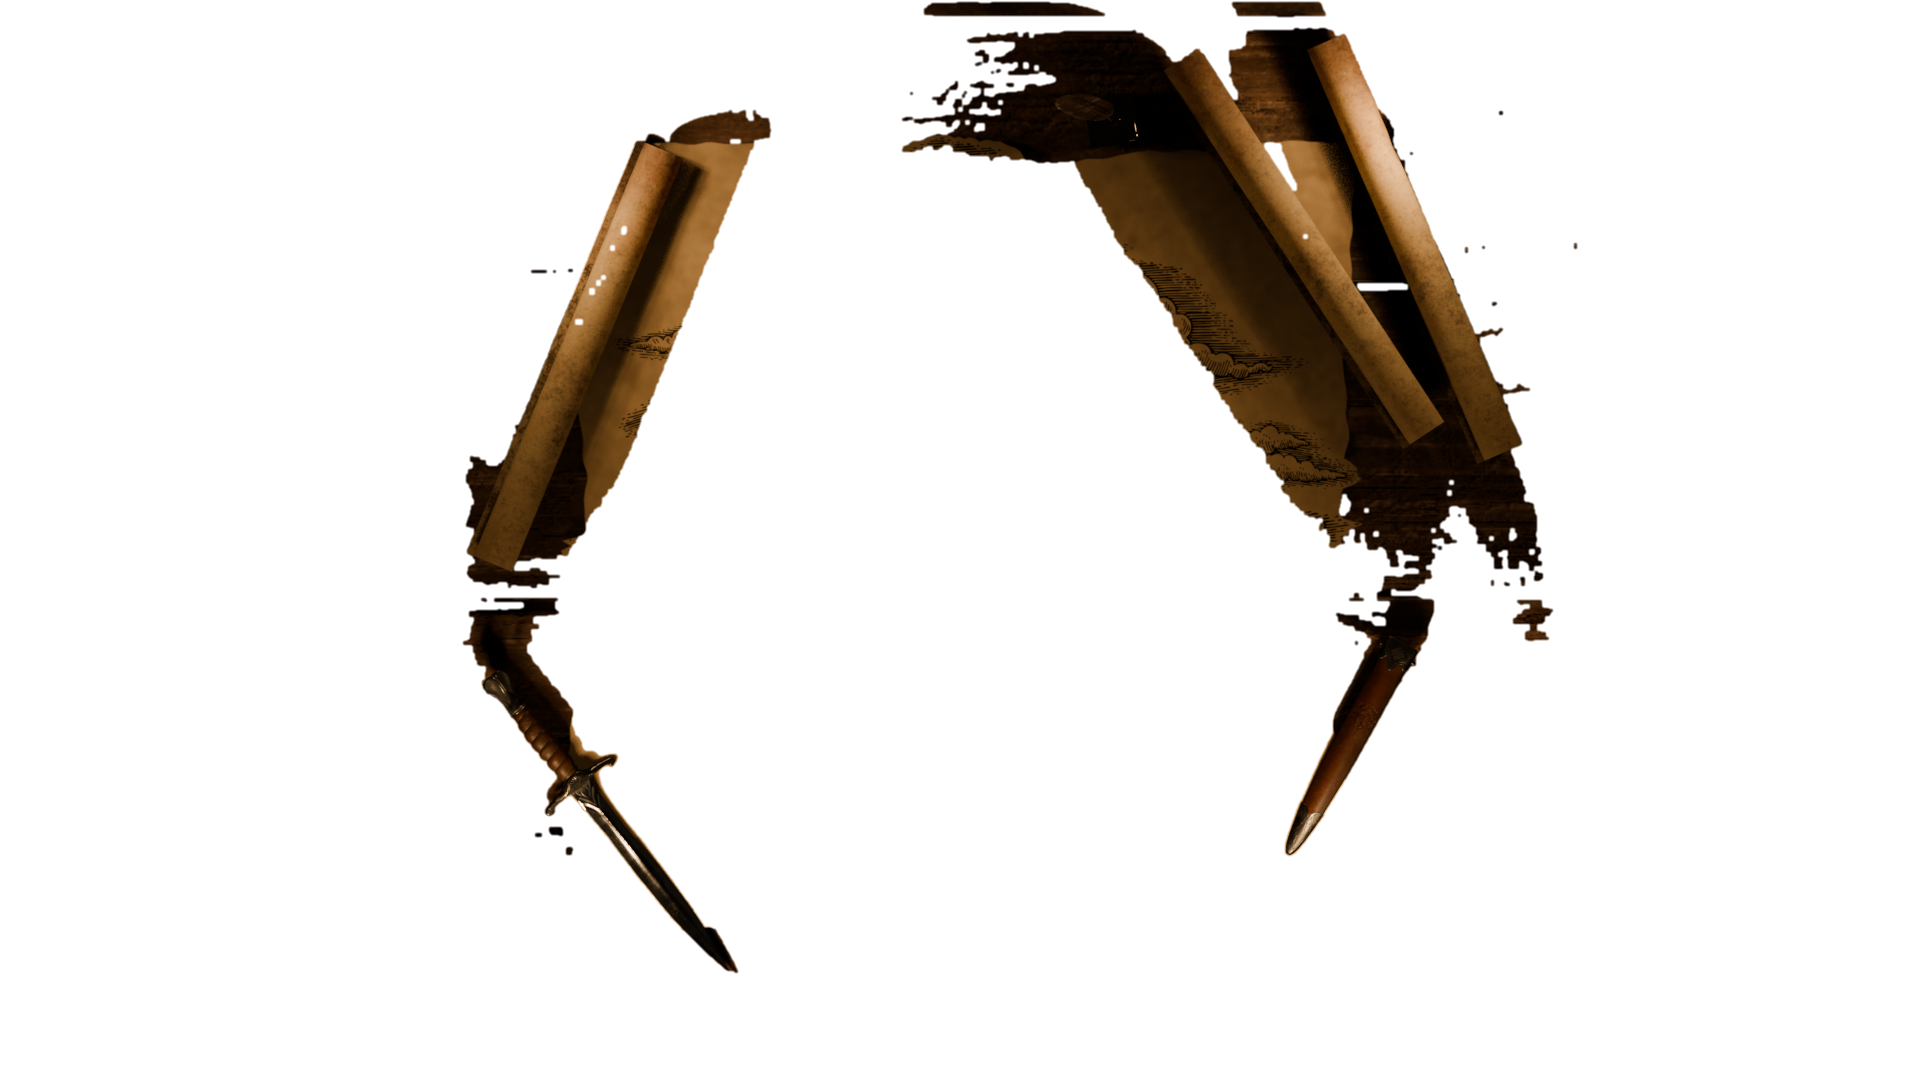
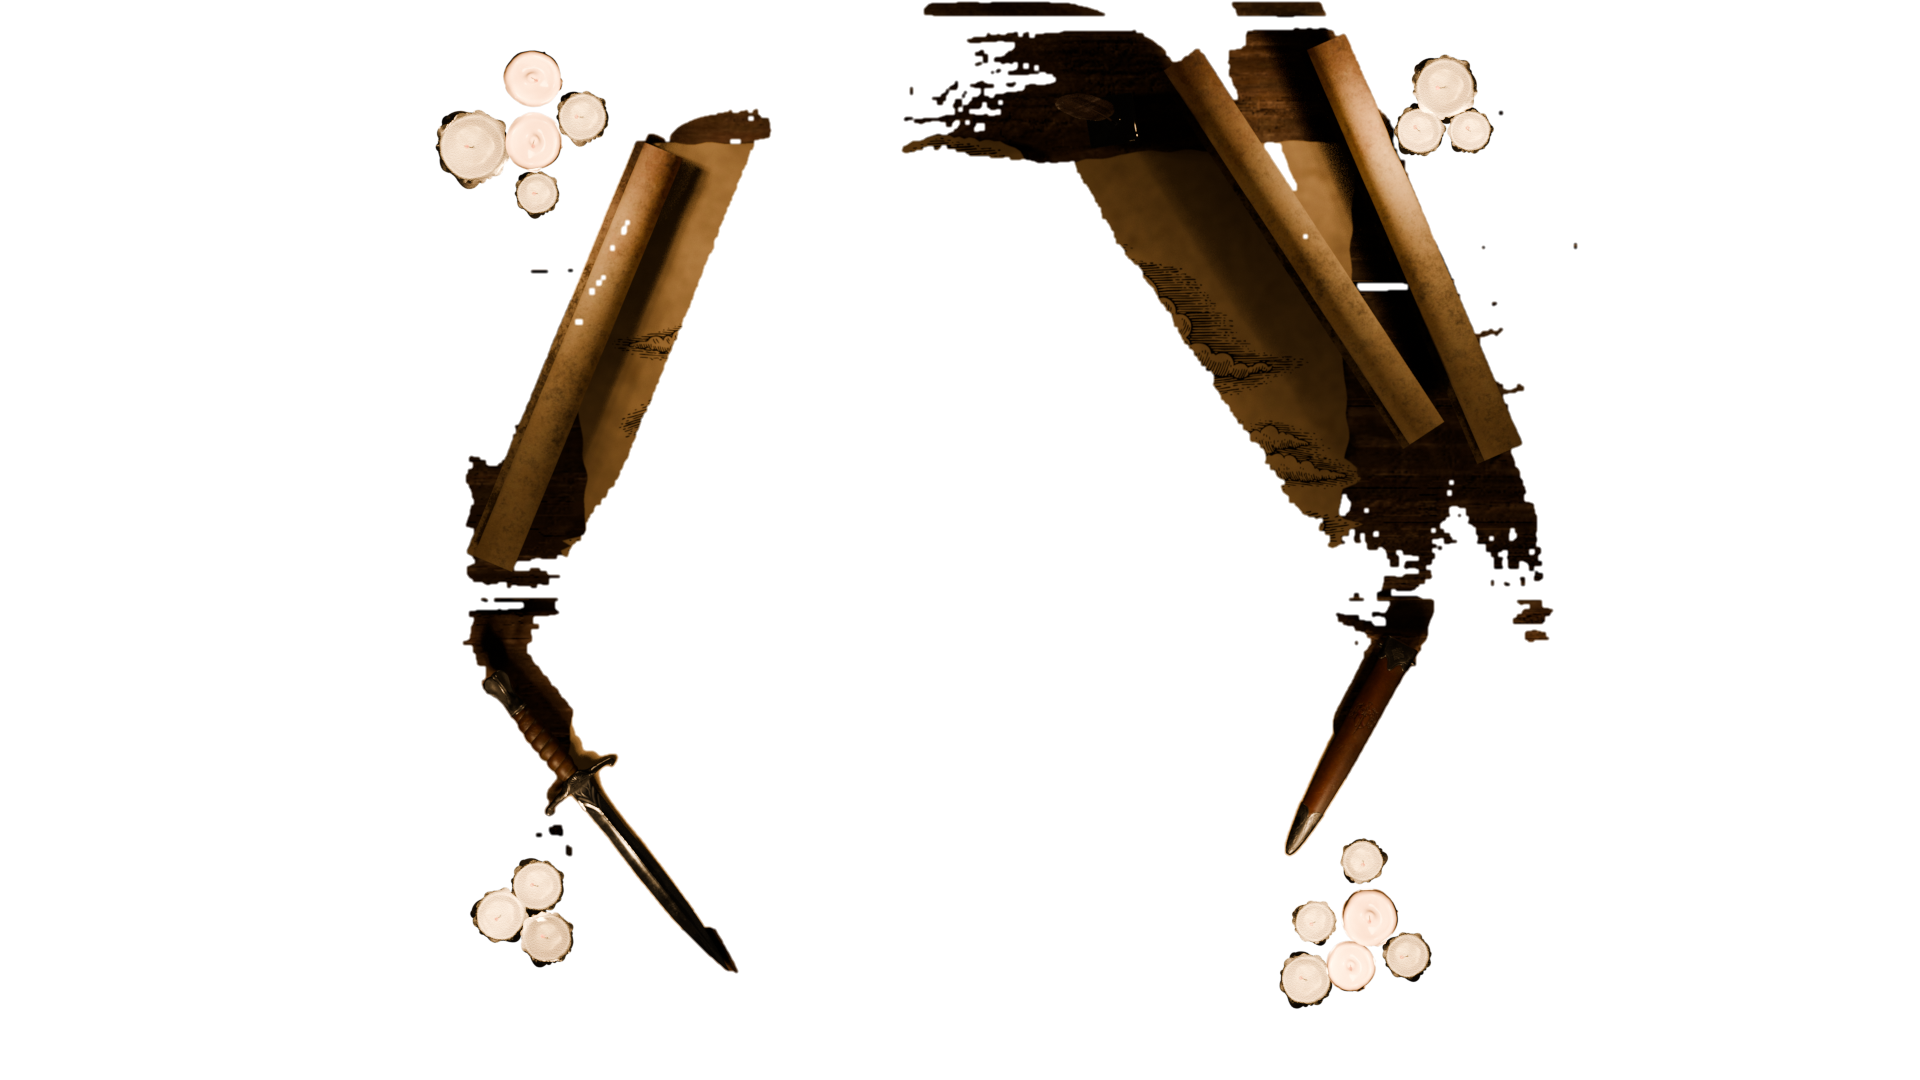
Fond Parchemin : accord de ton de la carte + bougies au-dessus
1. « assombris la carte pour que les couleurs correspondent ». Mesure : papier du
   decor 180,163,118 contre papier des tuiles 216,185,141 — la carte est 15% plus
   claire. Multiply constant du facteur exact 0.833/0.881/0.837, soit
   rgb(212,225,213), sur un volet dedie (z250). CONSTANT, donc la teinte ne change
   jamais au zoom (c'etait le reproche precedent).

2. « certaines bougies sous la carte ». Elles etaient dans la video, donc sous les
   tuiles. Ajoutees a la couche d'objets.
   ⚠ La difference avec/sans ne marche PAS pour elles : leurs flammes sont
   emissives, les cacher change l'eclairage de toute la scene et le masque
   attrapait la moitie de la table (44.7% au lieu de 13%). Rendues separement sur
   fond transparent, puis composees avec les objets extraits par difference (qui,
   eux, ont besoin de la difference pour garder leurs ombres portees).

objets.png 544 Ko, 13.6% opaque : dague, rouleaux, plume, bougies + ombres.

diff --git a/index.html b/index.html
@@ -50,7 +50,7 @@
      dans css/theme.css, en variables de thème. */
 </style>
 <!-- theme.css EN PREMIER : il définit les variables que les autres consomment -->
-<link rel="stylesheet" href="css/theme.css?v=2026-08-25q">
+<link rel="stylesheet" href="css/theme.css?v=2026-08-25r">
 <link rel="stylesheet" href="css/search.css">
 <link rel="stylesheet" href="css/panel.css">
 <link rel="stylesheet" href="css/explo.css">
@@ -71,7 +71,7 @@
 <div id="rechRes" role="listbox" aria-label="Résultats de recherche"></div>
 
 <script>
-window.INARAMA_BUILD='2026-08-25q';   // bump à chaque mise à jour de données (cache-busting)
+window.INARAMA_BUILD='2026-08-25r';   // bump à chaque mise à jour de données (cache-busting)
 window.INARAMA={_d:{},_cb:{},_inj:{},_pend:{},
   reg:function(n,d){this._d[n]=d;(this._cb[n]||[]).forEach(f=>f(d));this._cb[n]=[];},
   load:function(n,cb){if(this._d[n])return cb(this._d[n]);
@@ -357,13 +357,23 @@ const parchDecor=L.imageOverlay('decor_overlay.png?v='+_B,
 // isoles par difference entre deux rendus (avec/sans objets). Ils passent
 // AU-DESSUS du decor : sans ca ils restent sous la carte et on ne les voit pas.
 // Calage sur les bornes de la TABLE, comme la video dont ils sont extraits.
+// ACCORD DE TON : la carte est 15% plus claire que le papier du decor (mesure :
+// papier decor 180,163,118 contre papier tuiles 216,185,141). On la multiplie par
+// le facteur exact 0.833/0.881/0.837 -> rgb(212,225,213), pour que les deux
+// parchemins soient le meme. CONSTANT (pas de fondu au zoom) : la teinte ne
+// change donc jamais quand on zoome.
+map.createPane('teinte'); map.getPane('teinte').style.zIndex=250;
+map.getPane('teinte').style.mixBlendMode='multiply'; map.getPane('teinte').style.pointerEvents='none';
+const parchTeinte=L.rectangle(bounds,{interactive:false,pane:'teinte',stroke:false,
+  fillColor:'rgb(212,225,213)',fillOpacity:1});
 map.createPane('objets'); map.getPane('objets').style.zIndex=690;
 map.getPane('objets').style.pointerEvents='none';
 const parchObjets=L.imageOverlay('img/objets.png?v='+_B, _vB,
   {interactive:false,pane:'objets',className:'pobjets'});
-window.parchDecor=parchDecor; window.parchTable=parchTable; window.parchObjets=parchObjets;
+window.parchDecor=parchDecor; window.parchTable=parchTable; window.parchObjets=parchObjets; window.parchTeinte=parchTeinte;
 function updateDecor(){const on=document.body.classList.contains('parch');
-  if(!on){[parchDecor,parchTable,parchObjets].forEach(l=>map.removeLayer(l)); return;}
+  if(!on){[parchDecor,parchTable,parchObjets,parchTeinte].forEach(l=>map.removeLayer(l)); return;}
+  map.hasLayer(parchTeinte)||parchTeinte.addTo(map);   // accord de ton, constant
   // la table (fond) reste toujours ; au zoom la carte la couvre et sa marge sort
   if(!map.hasLayer(parchTable)){ parchTable.addTo(map);
     const v=parchTable.getElement(); if(v){v.muted=true; v.play&&v.play().catch(()=>{});} }
@@ -475,12 +485,12 @@ function terresHover(on){ tzOn=on;
    nécessaire, plutôt que de tout rendre global. */
 Object.assign(window,{ map, c2ll, RAR, lieuxMk, MAXZ, W, H, lieuxSync, bounds });
 </script>
-<script src="js/theme.js?v=2026-08-25q"></script>
-<script src="js/fond.js?v=2026-08-25q"></script>
-<script src="js/marge_decor.js?v=2026-08-25q"></script>
-<script src="js/brulure.js?v=2026-08-25q"></script>
-<script src="js/panel.js?v=2026-08-25q"></script>
-<script src="js/explo.js?v=2026-08-25q"></script>
-<script src="js/search.js?v=2026-08-25q"></script>
+<script src="js/theme.js?v=2026-08-25r"></script>
+<script src="js/fond.js?v=2026-08-25r"></script>
+<script src="js/marge_decor.js?v=2026-08-25r"></script>
+<script src="js/brulure.js?v=2026-08-25r"></script>
+<script src="js/panel.js?v=2026-08-25r"></script>
+<script src="js/explo.js?v=2026-08-25r"></script>
+<script src="js/search.js?v=2026-08-25r"></script>
 </body>
 </html>
